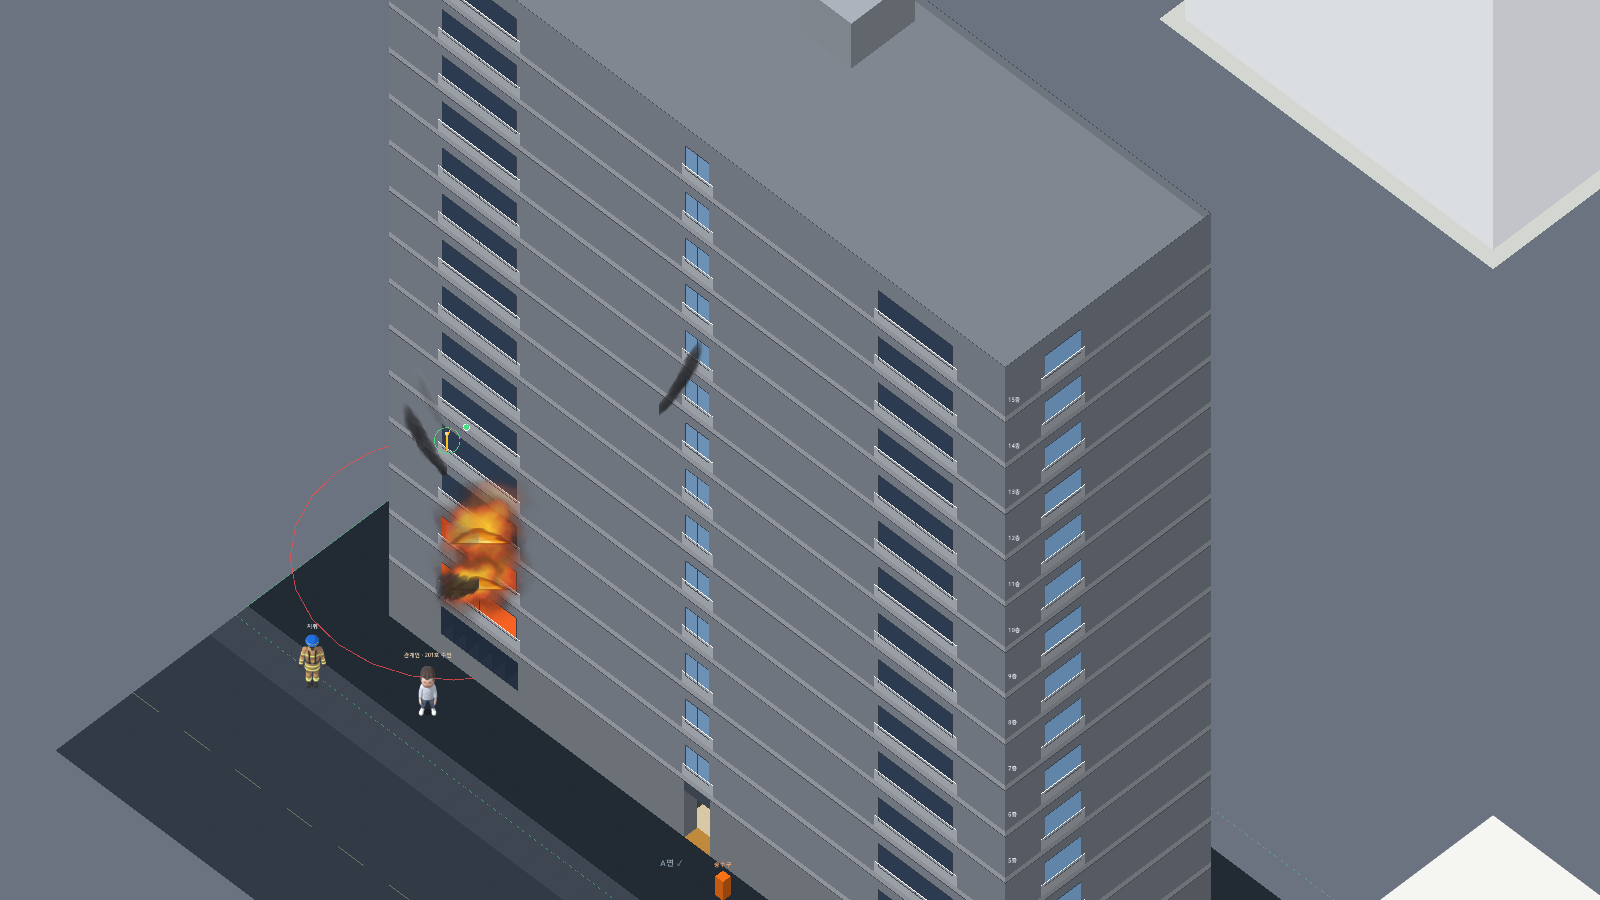
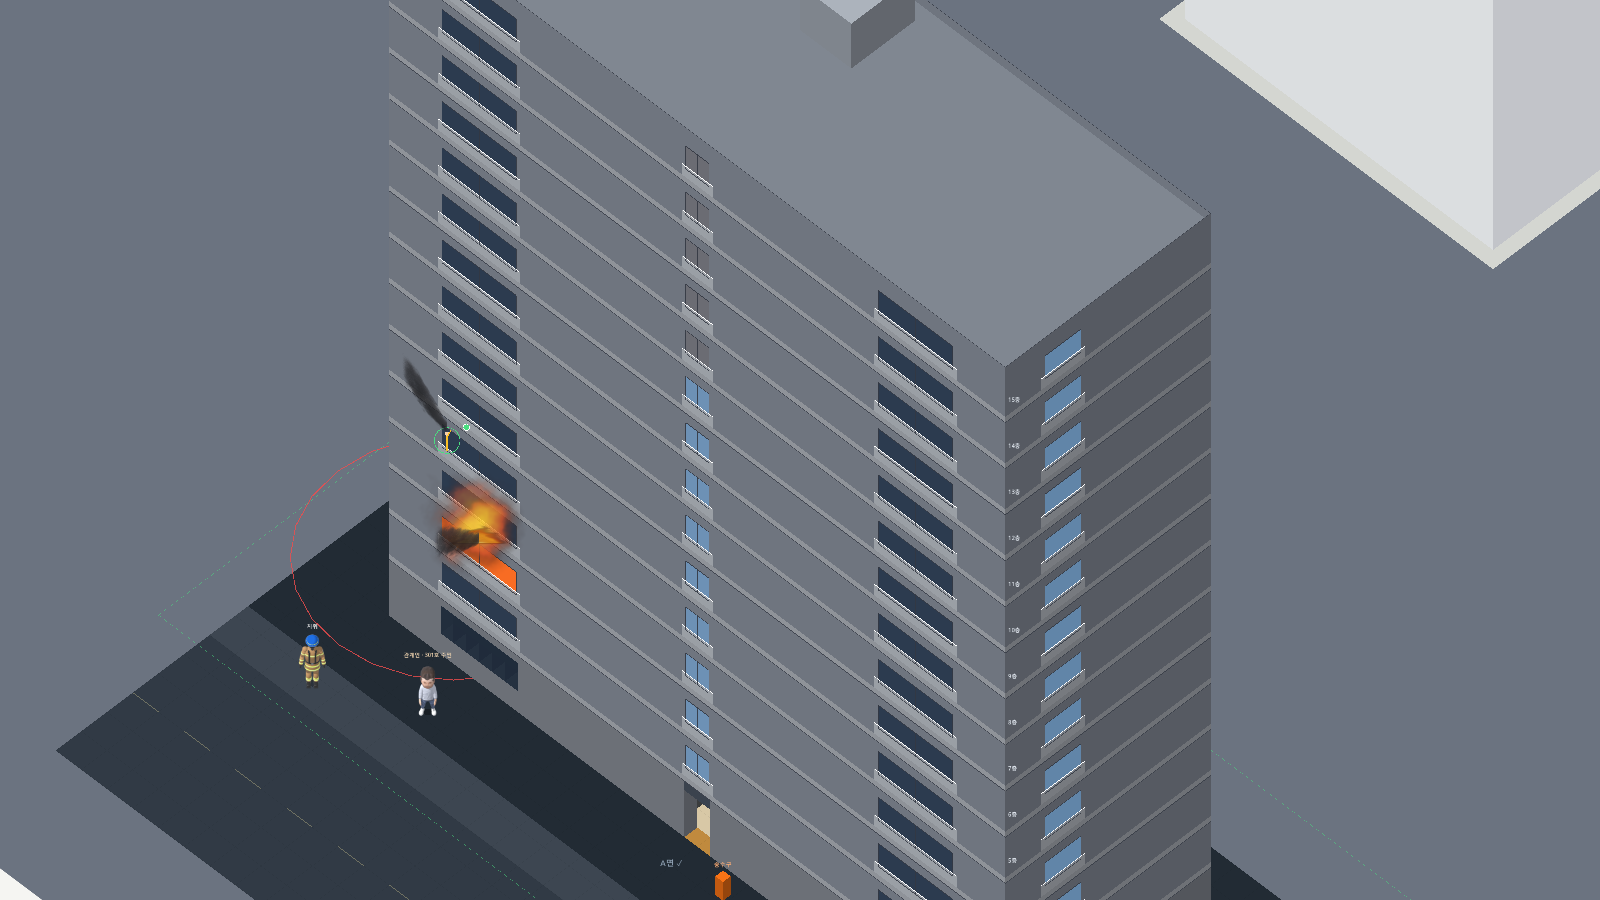
F01: 위층 바닥 턱을 뒤로 비킨 만큼 넓히고 깨진 가장자리로 갈수록 투명하게

diff --git a/docs/decisions.md b/docs/decisions.md
@@ -133,3 +133,4 @@
 | 2026-11-12 | F01 | 아래층은 온전히(흑백) | 위층(턱·점선)과 달리 아래층은 구조(바닥·벽·가구)를 온전히 그린다 — 지금 층이 가리는 곳은 자연히 안 보이고 앞쪽 띠만 보인다. 흑백 + 밝기 72%로 구분, 연기·불은 그리지 않음, 그 층 사람은 점선 테두리. 땅 층이 아래로 보이면 차량·바깥 사람은 원래 색(바깥 땅 겹). 건물 종류와 상관없이 같은 규칙. 위층 벽 상자는 바닥판 두께만큼 아래로 늘려 턱과 아랫면을 맞춤 | 사용자 제안·결정 — 아래층은 지금 층을 가리지 않으니 뜯어낼 이유가 없고, 건물이 아래로 이어진 것이 읽힘 |
 | 2026-11-12 | F01 | 위·아래 한 층씩 + 잘린 벽 | 함께 보이는 층을 위·아래 각 2개 → 1개 층(바로 위 = 턱·뒷벽, 바로 아래 = 흑백 온전)으로. 그 너머에 층이 더 있으면 잘린 벽만: 위쪽은 한 층 위에 뒷벽·왼쪽 벽을 반 층 높이(±불규칙)로 세워 위로 갈수록 투명, 아래쪽은 바닥 아래로 앞·오른쪽 바깥벽을 반 층 내려 아래로 갈수록 투명. 먼 층에는 대원·요구조자 등 아무것도 그리지 않음(층 막대로 안다). 1층 밑(땅)·생략 층으로는 잇지 않음. 먼 층은 화면에서 클릭 불가(층 막대·PgUp/PgDn) | 사용자 제안·결정 — 먼 층은 '더 있다'는 뜻만 있으면 됨 (단면도의 파단선). 화면이 깔끔하고 그리는 양이 줆 |
 | 2026-11-12 | F01 | 위층을 뒤로 비키기 (B 다시 적용) | 제자리 쌓기에서도 위층(턱·뒷벽·잘린 벽)은 층 높이 220px 위 + 건물 뒤쪽(북)으로 깊이 × 0.3 비켜 그림 (FloorStack.upper_vec). 아래층은 지금 층 바로 밑 그대로 | 사용자 결정 — 앞서 고른 B안(위층을 뒤로)이 실루엣 방식으로 바꾸며 빠져 있었음. 감수: 계단이 위층 턱과 만나지 않고, 위층이 뒷벽 위에 얹히지 않고 떠 보임 |
+| 2026-11-12 | F01 | 위층 바닥 턱 넓히기·그라데이션 | 뒷벽 쪽 턱 폭 = 턱 폭(1.1m) + 위층을 뒤로 비킨 거리 → 깨진 가장자리가 지금 층 뒷벽 바로 위까지. 벽 쪽은 진하고(0.7) 깨진 가장자리로 갈수록 투명(×0.1). 왼쪽 벽 쪽 턱은 폭 그대로(위층은 북쪽으로만 비켜 있다) + 같은 그라데이션 | 사용자 제안 — 뒤로 비킨 위층이 지금 층에서 떨어져 떠 보이던 것을 잇고, 넓힌 만큼 지금 층을 가리지 않게 |

diff --git a/docs/progress.md b/docs/progress.md
@@ -58,3 +58,4 @@
 | 2026-11-12 | F01 아래층 온전히(흑백) | scripts/ui/iso_view(아래층 ghost_mode 0·self_modulate·skip_live·people_outline·바깥 땅 겹), scripts/ui/building/floor_layer(people_outline, ghost_mode 5, 위층 벽 상자 아랫면), tests(ui_cutaway 확인 항목, ui_smoke 미니맵 끌기 다시 시도) | ui_smoke '미니맵 끌기'가 이번부터 한 번에 안 될 때가 있어 다시 시도하게 고침 — 원인(끼어드는 마우스 입력으로 추정) 미확인. 다음: 튜토리얼 단계 정비 |
 | 2026-11-12 | F01 위·아래 한 층씩 + 잘린 벽 | data/ui/view_params(visible_floors_above/below 1·stub_height_ratio), scripts/ui/building/floor_stack(more_above·more_below)·floor_layer(stub_above·stub_below·_stub_face·_draw_stub_below)·view_params, scripts/ui/iso_view, tests(test_cutaway, ui_cutaway, _shot_floor 점검 도구) | 3층 이상을 볼 때 땅(차량·바깥 대원)이 화면에 안 나옴(예전에는 3층까지 보였음). 다음: 튜토리얼 단계 정비 |
 | 2026-11-12 | F01 위층 뒤로 비키기 | scripts/ui/building/floor_stack(upper_vec, pick_level)·floor_layer(_stub_face lift 벡터), scripts/ui/iso_view, data/ui/view_params(설명), tests(test_cutaway, ui_cutaway) | 계단 디딤판은 수직 220px까지만 — 위층 턱과 어긋남(사용자 감수). 다음: 튜토리얼 단계 정비 |
+| 2026-11-12 | F01 턱 넓히기·그라데이션 | scripts/ui/building/floor_layer(_draw_upper_ledge)·floor_stack(upper_back_cells)·view_params, data/ui/view_params(ghost_ledge_fade), tests/test_cutaway | 다음: 튜토리얼 단계 정비 |
